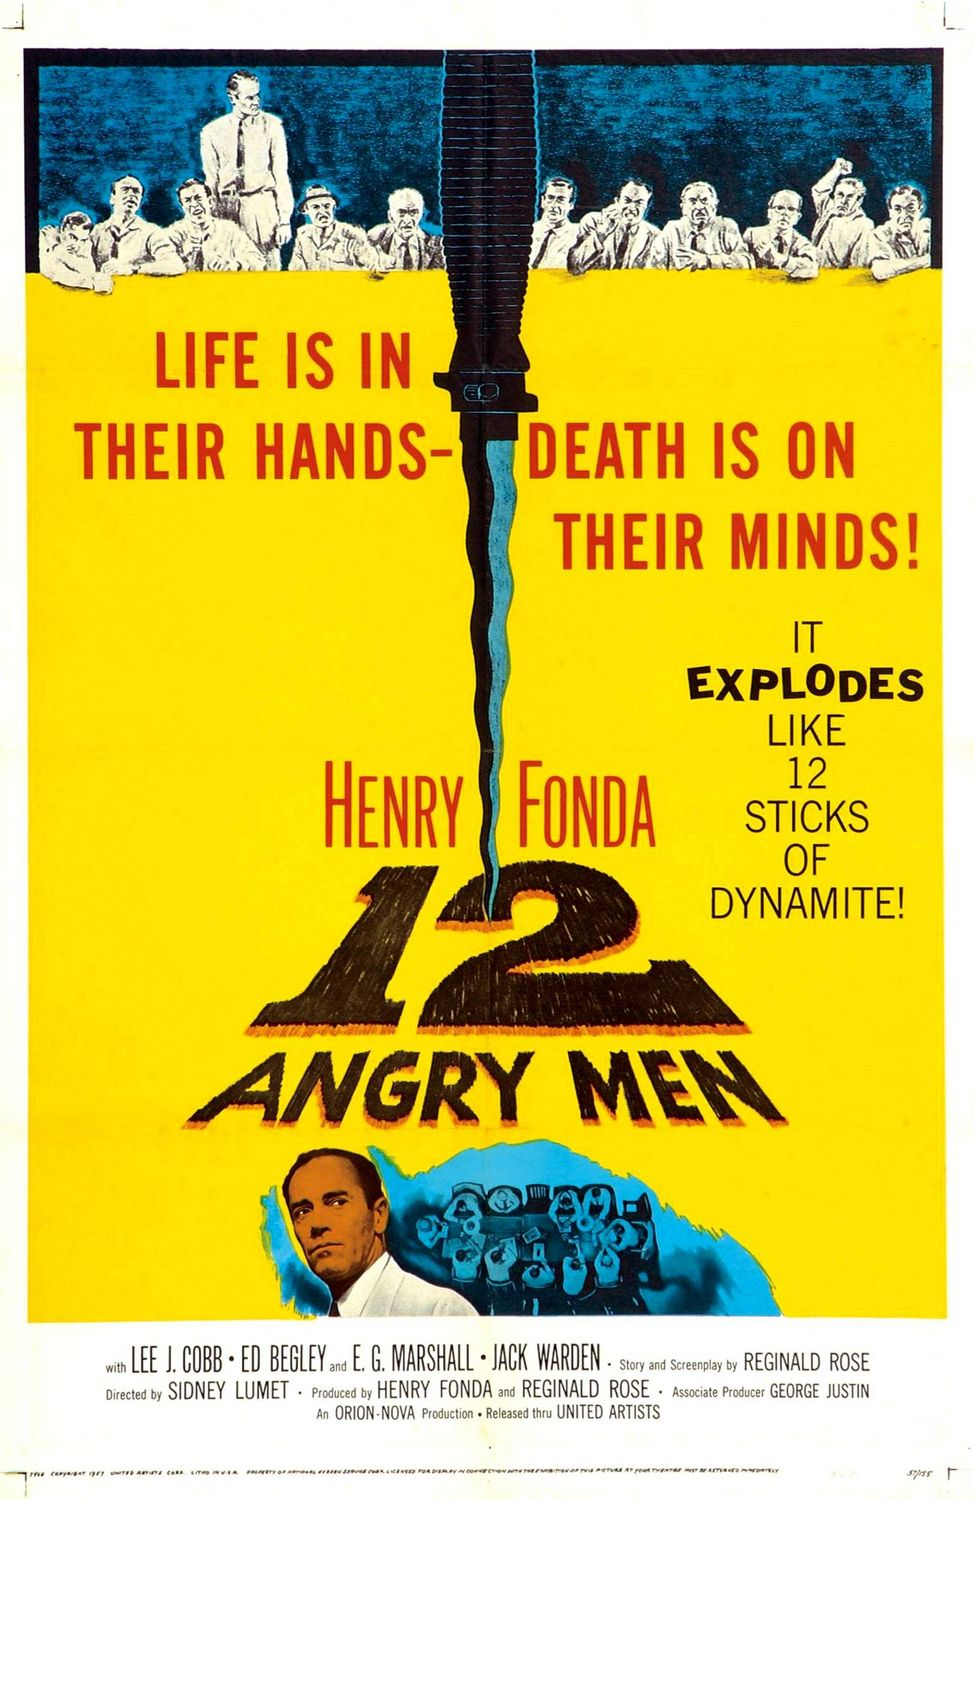
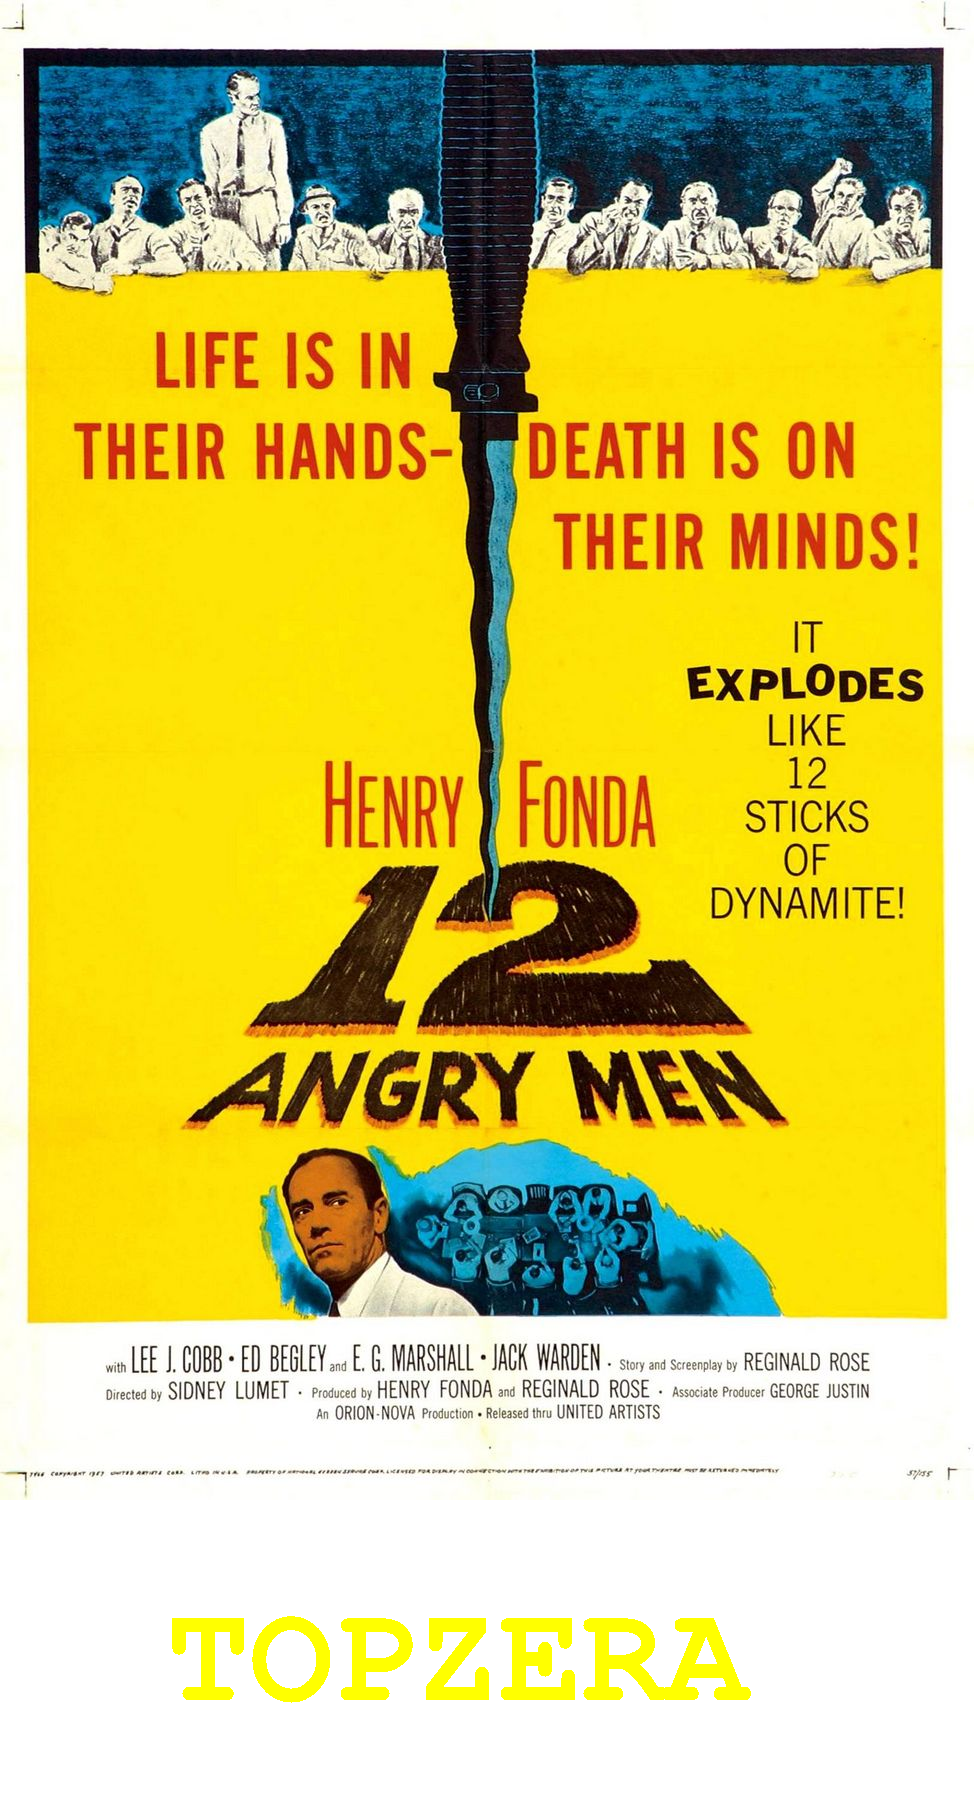
Texto das figurinhas centralizado e realinhado

diff --git a/src/GeradoraDeFigurinhas.java b/src/GeradoraDeFigurinhas.java
@@ -25,7 +25,7 @@ public class GeradoraDeFigurinhas  {
         BufferedImage imagemOriginal = ImageIO.read(inputStream);
         int largura = imagemOriginal.getWidth();
         int altura = imagemOriginal.getHeight();
-        final int novaAltura = altura + 200;
+        final int novaAltura = (int)(altura * 1.2);
         BufferedImage novaImagem = new BufferedImage(largura, novaAltura, BufferedImage.TRANSLUCENT);
 
         // copiar a imagem original para nova imagem
@@ -33,13 +33,13 @@ public class GeradoraDeFigurinhas  {
         graphics.drawImage(imagemOriginal, 0,0, null);
 
         // configurar a fonted
-        var fonte = new Font(Font.SANS_SERIF, Font.BOLD, 32);
+        var fonte = new Font(Font.MONOSPACED, Font.BOLD, (int)largura/7);
         graphics.setFont(fonte);
 
 
         // escrever uma frase na nova imagem
-        graphics.drawString("TOPZERA",0,novaAltura-100);
         graphics.setColor(Color.YELLOW);
+        graphics.drawString("  TOPZERA",0,novaAltura-100);
 
 
         // escrever a imagem nova em um arquivo

diff --git a/src/App.java b/src/App.java
@@ -56,16 +56,16 @@ public class App {
         List<Map<String, String>> listaDeFilmes = parser.parse(body);
 
         // exibir e manipular os dados que desejar
+        GeradoraDeFigurinhas geradora = new GeradoraDeFigurinhas();
 
         for (Map<String,String> filme : listaDeFilmes) {
 
             String tituloDoFilme = filme.get("title");
             String urlDaImagem = filme.get("image");
 
-            System.out.println(negrito+"URL da Imagem:"+semNegrito+" "+urlDaImagem);
+            //System.out.println(negrito+"URL da Imagem:"+semNegrito+" "+urlDaImagem);
             System.out.println(negrito+"Título:"+semNegrito+" "+tituloDoFilme);
 
-            GeradoraDeFigurinhas geradora = new GeradoraDeFigurinhas();
             InputStream inputStream = new URL(urlDaImagem).openStream();
     
             geradora.cria(inputStream, "saida/"+tituloDoFilme+".png");
